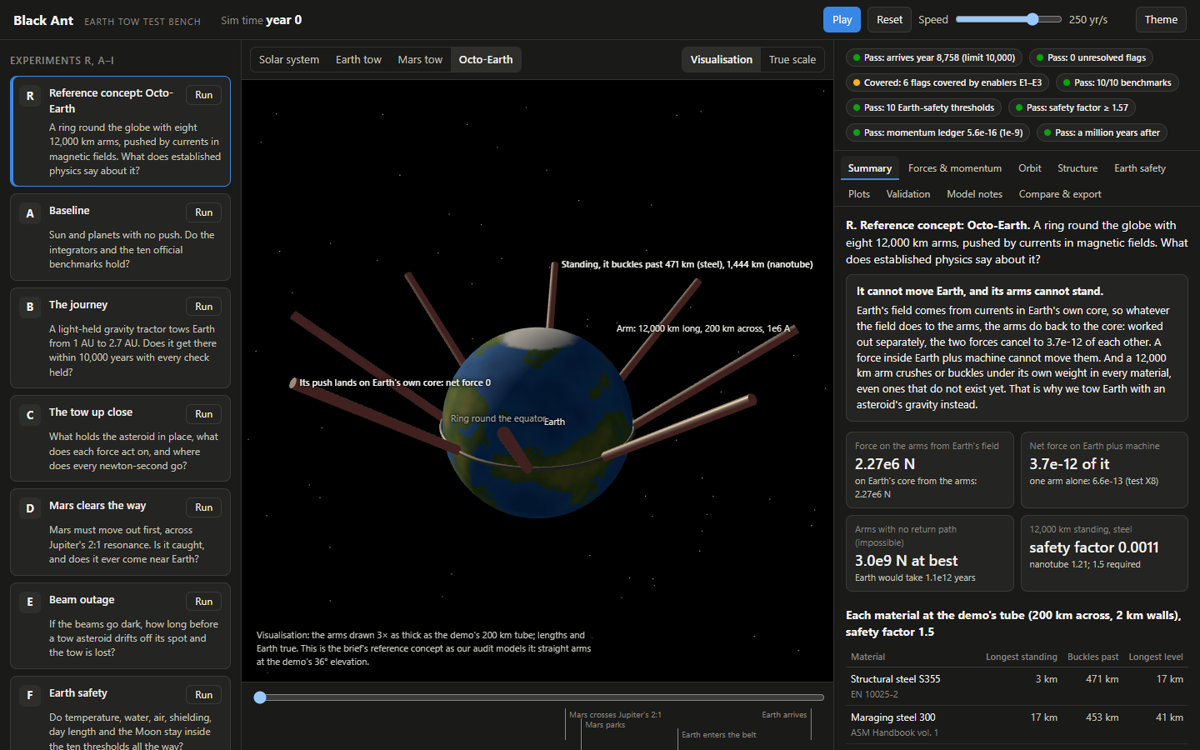
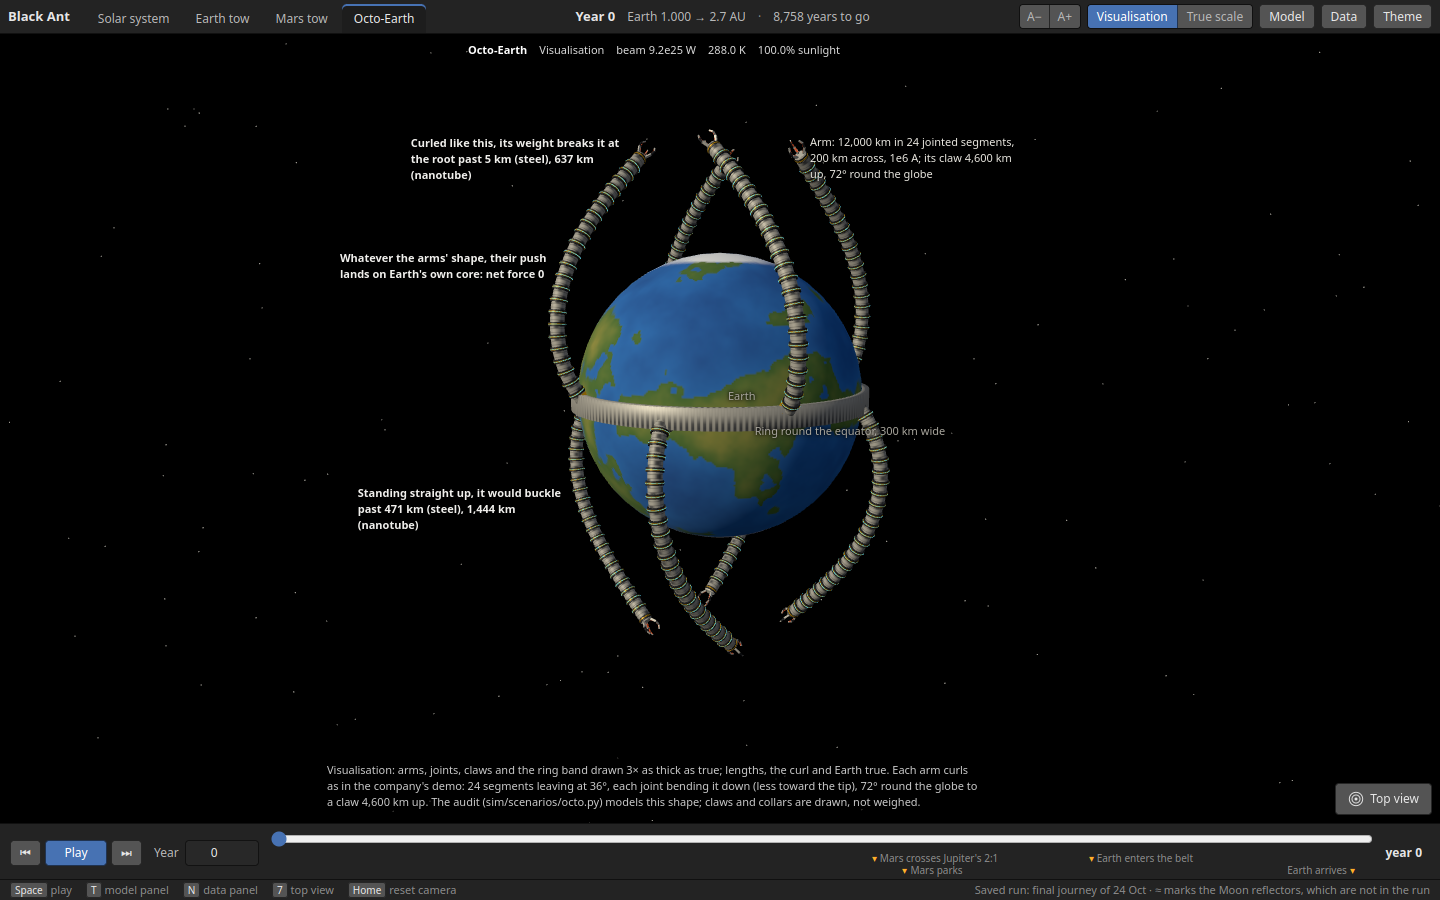
Docs: Octo-Earth report figure, table and numbers for the curled arm (#27)
- docs/img/octo-earth.png re-taken from the new view (1440x900, panels
  hidden, like the other report figures); caption updated.
- report.md: the arm as the demo draws it, net force 3.4e-13, and a "curled as
  drawn" column in the strength table; approach.md, qa.md and the risk
  register carry the same numbers.
- video.mjs: the Octo-Earth caption's numbers (the video itself still needs
  that shot re-rendered); status.md lists that as next.
- contributions.md: Akhil's line for #27. CONTEXT.md: summary, decision,
  prompt and log.

diff --git a/CONTEXT.md b/CONTEXT.md
@@ -20,8 +20,10 @@ focused light on a mirror tied to the asteroid holds it in place. Mars is towed 
 Sunlight mirrors (E3) keep Earth at today's sunlight and 288 K. On the last stretch (from 2.0 AU) the tow steers
 Earth onto the orbit shape and plane Jupiter forces at 2.7 AU (the "arrival trim").
 
-**Why not the brief's Octo-Earth:** forces between arms and Earth are internal (net 3.7e-12 of each force), and a
-12,000 km arm buckles past 471 km (steel) or 1,444 km (nanotube). Audited in `sim/scenarios/octo.py`, test X8.
+**Why not the brief's Octo-Earth:** forces between arms and Earth are internal whatever the arms' shape (net 3.4e-13
+of each force). Curled over the planet as the company's demo draws it, a 12,000 km arm breaks at its root past 5 km
+(steel) or 637 km (nanotube); standing straight up it would buckle past 471 km or 1,444 km. Audited in
+`sim/scenarios/octo.py` (the demo's curled arm, from `config.yaml` `octo_earth`), test X8.
 
 - Repo: `github.com/Ashish000011/black-ant`. Nobody pushes to `main`: branch, PR, Ashish reviews and merges.
 - Team: Ashish Bharti (lead), Madhukar Verma, Akhil Semwal, Sushmit Sukla, Prabhanshu Kerketa. Who did what is in
@@ -87,7 +89,7 @@ cd viewer && npm ci && npm run dev        # test bench locally
 | Runnable simulation + 3D test bench | Done; Blender-style test bench in PR #23 |
 | Technical report (8 pages max) | Drafted (`docs/report.md`); needs PDF export |
 | Conservation and momentum record | Done (`docs/momentum-record.md`) |
-| Demo video (3 min max) | Done, captions on screen (`media/black-ant-demo.mp4`); re-rendered with the Blender-style test bench; the Octo-Earth shot waits for #27 |
+| Demo video (3 min max) | Done, captions on screen (`media/black-ant-demo.mp4`); re-rendered with the Blender-style test bench; its Octo-Earth shot still shows the old straight arms: re-render it now that #27 is done (`video.mjs` caption already updated) |
 | Pitch deck (7 min) | Drafted, 13 slides (shared deck, ask Ashish) |
 | Half-step convergence check | Done (numbers in section 2) |
 | Still open | Each member checks their section of `docs/contributions.md` (#17) |
@@ -175,6 +177,7 @@ while Earth goes out to 2.7 AU. Tows modelled as their pull on the planet (G m /
 | 25 Oct | Moon / tow asteroid rows open the tow close-up (not drawn in the solar-system view) | In that view Earth is drawn 260x, so they would sit inside it |
 | 25 Oct | Model panel keeps experiments, time meters, concept and enablers only; reflector numbers stay at fixed defaults (satellites follow the run, Moon reflectors restore today's full Moon) | User: no need for the sliders |
 | 25 Oct | CONTEXT.md is updated for notable changes only, in the same PR; no machine-specific setup in it | Ashish's review: every PR editing it would conflict, and local paths or accounts would mislead other machines |
+| 25 Oct | Octo-Earth drawn and audited as the company's demo draws it (experiment R: 24 jointed segments curling 72° round the globe to a claw 4,600 km up, alternate arms north and south), ring on the equator; its labels give both the curled arm's failure and the standing arm's buckling | Akhil (#27): the demo is what the company expects, "this or closest to it"; the curled arm fails sooner than the standing one buckles |
 
 ## 9. Important prompts (condensed)
 
@@ -195,6 +198,9 @@ while Earth goes out to 2.7 AU. Tows modelled as their pull on the planet (G m /
 - **25 Oct, P8:** Show the Earth-Mars swap results; is it feasible? (Answered with a chart: no, not for the final.)
 - **25 Oct, P9:** Commit it all now, with messages saying what is implemented.
 - **25 Oct, P10:** Ashish approved PR #23 with review comments: work on them, and start new sessions for the next PRs.
+- **25 Oct, P11 (Akhil, #27):** Make the Octo-Earth view match the company's demo (octo-earth-simulator.vercel.app),
+  "this or closest to it"; labels show both the curled and the standing numbers; ring on the equator; report figure
+  and a new column in its table.
 
 ## 10. What can be delivered next
 
@@ -241,3 +247,9 @@ Ideas, not started:
   enablers, and dropped from code comments. Organiser questions and `docs/video-script.md` removed from the public
   docs; the six winning conditions vs ten thresholds/benchmarks made explicit in `docs/problem.md`; report figures
   re-taken from the new test bench. Akhil assigned the Octo-Earth reference view (#27).
+- 25 Oct: Octo-Earth reference view (#27, Akhil). Studied the company's demo (its own code): experiment R's arm is 24
+  jointed segments leaving at 36.1° and bending 7.13° down per joint (less toward the tip) to a claw 72° round the
+  globe, 4,600 km up. `config.yaml` `octo_earth` and `octo.py` now model that arm (`arm_path`, `curled_root`): net
+  force 3.4e-13 (was 3.7e-12 for straight arms); curled it breaks at its root past 5 km (steel), 637 km (nanotube),
+  safety factor 0.012 at 12,000 km. Test X8 checks the shape, the net force and the curled failure. `scene.js` draws
+  the ring band, the jointed arms with collars and three-fingered claws; report figure, table and docs updated.

diff --git a/docs/report.md b/docs/report.md
@@ -30,26 +30,26 @@ The ten Earth-safety thresholds are those of the company's reference demo; the b
 
 ## Why not Octo-Earth
 
-Octo-Earth cannot move Earth, and its arms cannot hold themselves up. We audited it with the same physics as our own machine, at the demo's default arm: eight arms, each 12,000 km long, a 200 km tube with 2 km walls, carrying 1 MA with its return conductor 50 km away.
+Octo-Earth cannot move Earth, and its arms cannot hold themselves up. We audited it with the same physics as our own machine, at the arm the company's demo draws (its experiment R): eight arms rooted 45° apart on a ring round the globe, each 12,000 km long in 24 jointed segments, a 200 km tube with 2 km walls, carrying 1 MA with its return conductor 50 km away. Alternate arms reach north and south and curl 72° round the globe to a gripper claw 4,600 km up.
 
-![Octo-Earth as our audit models it, in the test bench](img/octo-earth.png)
+![Octo-Earth as the company's demo draws it and our audit models it, in the test bench: a ring on the equator and eight jointed arms curling over the planet to gripper claws (arms, joints, claws and ring drawn 3× as thick as true; lengths true)](img/octo-earth.png)
 
-**No net push.** Earth's magnetic field comes from currents in Earth's own core, modelled as a loop with Earth's dipole moment (8.0 × 10^22 A m²). We work out the force of the core's field on the arms (2.27 × 10^6 N) and the force of the arms' field on the core separately, each with Biot–Savart fields and I dl × B. They cancel to 3.7 × 10^-12 of each other (test X8). The arms push only on Earth itself, and a force inside Earth plus machine cannot move them.
+**No net push.** Earth's magnetic field comes from currents in Earth's own core, modelled as a loop with Earth's dipole moment (8.0 × 10^22 A m²). We work out the force of the core's field on the curled arms (1.94 × 10^6 N) and the force of the arms' field on the core separately, each with Biot–Savart fields and I dl × B. They cancel to 3.4 × 10^-13 of each other (test X8). Whatever the arms' shape, they push only on Earth itself, and a force inside Earth plus machine cannot move them.
 
-- In the demo's uniform 0.5 nT outside field, closed arm circuits feel 10^-11 N against an I L B of 6,000 N: nothing.
+- In the demo's uniform 0.5 nT outside field, closed arm circuits feel 2 × 10^-12 N against an I L B of 6,000 N: nothing.
 - Arms with no return path seem to push, but their charge would have nowhere to go. Even in Earth's full field they would give at most 3 × 10^9 N, so the trip would take about 10^12 years.
 
-**The arms cannot stand.** At a safety factor of 1.5, with the demo's tube:
+**The arms cannot hold themselves up.** Curled as drawn, an arm is a beam held only at its root, and the weight of every segment bends it there: at 12,000 km the root carries 5,500 GPa even in ideal nanotube (63 GPa, the strongest single tube ever measured), a safety factor of 0.012, and 33,000 GPa in steel. Bending is 99% of that stress; the push along the arm is also 870 times the load at which a nanotube column that long buckles. At a safety factor of 1.5, with the demo's tube, the longest arm that holds itself up:
 
-| Material | Longest standing arm | Buckles under its own weight past | Longest arm held level |
-| --- | --- | --- | --- |
-| Structural steel S355 | 3 km | 471 km | 17 km |
-| Maraging steel 300 | 17 km | 453 km | 41 km |
-| CFRP, unidirectional | 86 km | 691 km | 91 km |
-| Carbon nanotube, ideal (hypothetical) | 6,964 km | 1,444 km | 568 km |
-| Graphene, ideal (hypothetical) | 10,454 km | 1,200 km | 618 km |
+| Material | Curled as drawn | Standing straight up | Standing, buckles past | Held out level |
+| --- | --- | --- | --- | --- |
+| Structural steel S355 | 5 km | 3 km | 471 km | 17 km |
+| Maraging steel 300 | 22 km | 17 km | 453 km | 41 km |
+| CFRP, unidirectional | 72 km | 86 km | 691 km | 91 km |
+| Carbon nanotube, ideal (hypothetical) | 637 km | 6,964 km | 1,444 km | 568 km |
+| Graphene, ideal (hypothetical) | 699 km | 10,454 km | 1,200 km | 618 km |
 
-A standing 12,000 km arm puts 315 GPa on its base in steel, which yields at 0.355 GPa. Even in ideal nanotube (63 GPa, the strongest single tube ever measured) it reaches only a safety factor of 1.2, and the column buckles (Greenhill's limit) past 1,450 km. Titanium, aluminium and aramid fall between steel and CFRP. This is why we move Earth with an asteroid's gravity instead: the asteroid is outside Earth, and nothing touches the planet.
+"Curled" is the demo's curl cut shorter. A standing 12,000 km arm puts 315 GPa on its base in steel, which yields at 0.355 GPa. In ideal nanotube it reaches a safety factor of 1.2, and the column buckles (Greenhill's limit) past 1,450 km. Titanium, aluminium and aramid fall between steel and CFRP. This is why we move Earth with an asteroid's gravity instead: the asteroid is outside Earth, and nothing touches the planet.
 
 ## The machine: a gravity tractor held by light
 

diff --git a/docs/approach.md b/docs/approach.md
@@ -15,17 +15,20 @@ Arms rooted on Earth push on Earth, and Earth pushes back on them equally (Newto
 inside the Earth-plus-machine system cancel, so they cannot move its centre of mass: to change Earth's
 orbit, a force has to come from outside it (another mass's gravity, light from outside, or mass thrown
 away). We audited the reference concept with numbers (`uv run python -m sim.scenarios.octo`, results in
-`results/octo_earth.json`), at the demo's default arm: 12,000 km long, a 200 km tube with 2 km walls, 1 MA.
+`results/octo_earth.json`), at the arm the company's demo draws: 12,000 km in 24 jointed segments curling
+72 degrees round the globe to a claw 4,600 km up, a 200 km tube with 2 km walls, 1 MA.
 
 - **No net push.** Earth's magnetic field comes from currents in Earth's own core. The force of the core's
-  field on the arms' circuits (2.3 x 10^6 N) and the force of the arms' field on the core, worked out
-  separately, cancel to 8 x 10^-12 of each other (test X8). The arms only push on Earth itself. In a
-  uniform outside field (the demo's 0.5 nT) closed circuits feel no net force at all. Arms with no return
-  path seem to push, but their charge would have nowhere to go; and even in Earth's full field they would
-  give at most 3 x 10^9 N, so the trip would take about 10^12 years.
-- **The arms cannot hold themselves up.** Standing, a 12,000 km arm's own weight puts 315 GPa on its base
-  in steel (which yields at 0.355 GPa) and 52 GPa in carbon nanotube (63 GPa is the strongest single tube
-  ever measured: a safety factor of 1.2, under the 1.5 required). Long before that, the column buckles
+  field on the arms' circuits (1.9 x 10^6 N) and the force of the arms' field on the core, worked out
+  separately, cancel to 3 x 10^-13 of each other (test X8). Whatever their shape, the arms only push on
+  Earth itself. In a uniform outside field (the demo's 0.5 nT) closed circuits feel no net force at all.
+  Arms with no return path seem to push, but their charge would have nowhere to go; and even in Earth's
+  full field they would give at most 3 x 10^9 N, so the trip would take about 10^12 years.
+- **The arms cannot hold themselves up.** Curled as drawn, an arm is a beam held only at its root, and its
+  weight breaks it there past 5 km in steel and 640 km in nanotube (a safety factor of 0.012 at 12,000 km).
+  Standing straight up, a 12,000 km arm's own weight puts 315 GPa on its base in steel (which yields at
+  0.355 GPa) and 52 GPa in carbon nanotube (63 GPa is the strongest single tube ever measured: a safety
+  factor of 1.2, under the 1.5 required). Long before that, the column buckles
   under its own weight: past 470 km in steel and 1,450 km in nanotube (under 3,000 km even with the
   weakest gravity along the arm). Held out level, the longest arm with a 1.5 safety factor is 17 km in
   steel and 570 km in nanotube.

diff --git a/docs/risk-register.md b/docs/risk-register.md
@@ -18,7 +18,7 @@ Rules: the participant guide (Planetary Propulsion Hackathon); see `docs/problem
 | "About 2.7 AU" | Exact target and tolerance | Million-year runs | Earth's orbit stays 2.698 to 2.702 AU | Holds | Ashish |
 | Moving Mars may be questioned | The brief protects Earth and life | Journey without Mars's tow | Without it Earth passes Mars at about 33,000 km; Mars has no known life | Ask organisers | Ashish |
 | Deliverables | Report (8 pages at most), momentum record, video (3 minutes), deck (7 minutes) | Issues #11, #15, #16 | Report drafted (14 sections, two figures), `docs/momentum-record.md`, demo video (2 min 20 s), 13-slide deck, `docs/qa.md`, test bench (`viewer/`) | Drafted; review before submitting | Ashish |
-| The reference concept left unexamined | Judges expect Octo-Earth judged with numbers, not dismissed | `sim/scenarios/octo.py`, test X8 | Core field on the arms and arms on the core cancel to 3.7e-12; closed circuits in a 0.5 nT field feel nothing; a 12,000 km arm buckles past 471 km (steel), 1,444 km (nanotube) | Holds | Ashish (#6, #12) |
+| The reference concept left unexamined | Judges expect Octo-Earth judged with numbers, not dismissed | `sim/scenarios/octo.py`, test X8 | Core field on the curled arms and arms on the core cancel to 3.4e-13; closed circuits in a 0.5 nT field feel nothing; curled as the demo draws it, a 12,000 km arm breaks at its root past 5 km (steel), 637 km (nanotube), and standing it buckles past 471 km, 1,444 km | Holds | Ashish (#6, #12) |
 | Visualisation and usability (10 marks) | Judges must see real against enlarged sizes, and every check | `viewer/`: 3D views, scale labels, ten experiments, nine results tabs | Built; published on GitHub Pages from `main` | Holds once merged | Ashish (#7, #8) |
 
 ## The tow machine

diff --git a/docs/contributions.md b/docs/contributions.md
@@ -24,8 +24,11 @@ your own words.
 - **Research and verification:** the research behind the concept, and checking the physics and the numbers.
 - Raised the idea of parking Earth in a Kirkwood gap to dodge asteroids. The check showed the gaps are gaps in
   orbit size, not in space, so Earth stays at 2.7 AU.
-- Next: a realistic Octo-Earth reference view in the test bench
-  ([#27](https://github.com/Ashish000011/black-ant/issues/27)).
+- **The Octo-Earth reference view** ([#27](https://github.com/Ashish000011/black-ant/issues/27)): studied the
+  company's demo and redrew our Octo-Earth to match it (a ring on the equator, eight 12,000 km arms of 24 jointed
+  segments curling over the planet to gripper claws). The audit (`sim/scenarios/octo.py`, test X8) now models that
+  curled arm: the net force is still zero, and curled, an arm breaks at its root past 5 km in steel and 637 km in
+  ideal nanotube, sooner than it would buckle standing up.
 
 ## Madhukar Verma
 

diff --git a/docs/qa.md b/docs/qa.md
@@ -118,7 +118,9 @@ error-free (two-sum) compensated sum. The guide's two checks close to 5.5 x 10^-
 
 **Why not Octo-Earth?**
 Its arms push on Earth's field, whose source is Earth's own core: we compute both forces and they cancel to
-3.7 x 10^-12. And a 12,000 km arm buckles under its own weight past 471 km in steel, 1,444 km in ideal nanotube.
+3.4 x 10^-13, whatever the arms' shape. And curled over the planet as the company's demo draws it, a 12,000 km arm
+breaks at its root under its own weight past 5 km in steel, 637 km in ideal nanotube; standing straight up, it would
+buckle past 471 km and 1,444 km.
 
 **What would break your design?**
 The power (E1) and building at planet scale (E3). Physically, the closest calls were Mars caught by Jupiter's 2:1

diff --git a/docs/status.md b/docs/status.md
@@ -45,7 +45,8 @@ official benchmarks pass; the momentum ledger closes to 5.6 × 10^-16 (limit 10^
 1. **Report to PDF** and deck rehearsal.
 2. **Contribution log** (#17): careers offers go by individual contribution, so each member checks their section
    of [contributions.md](contributions.md) and adds anything missing.
-3. **A realistic Octo-Earth reference view** (Akhil, #27), then the demo video's Octo-Earth shot re-rendered.
+3. **The demo video's Octo-Earth shot re-rendered** with the new reference view (#27: curled jointed arms, as the
+   company's demo draws them).
 
 ## How to look at it
 
